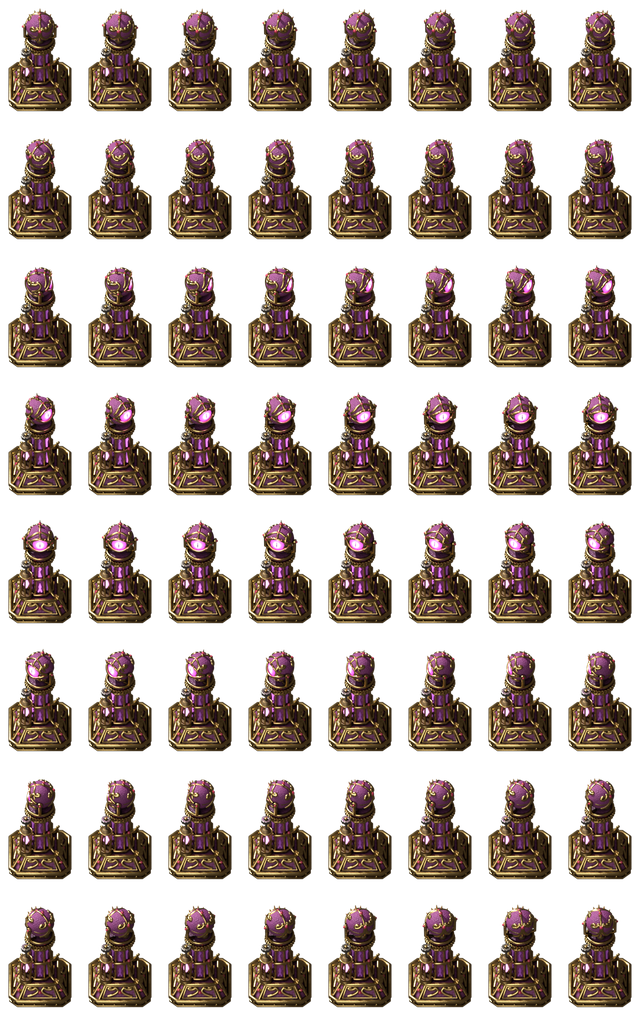
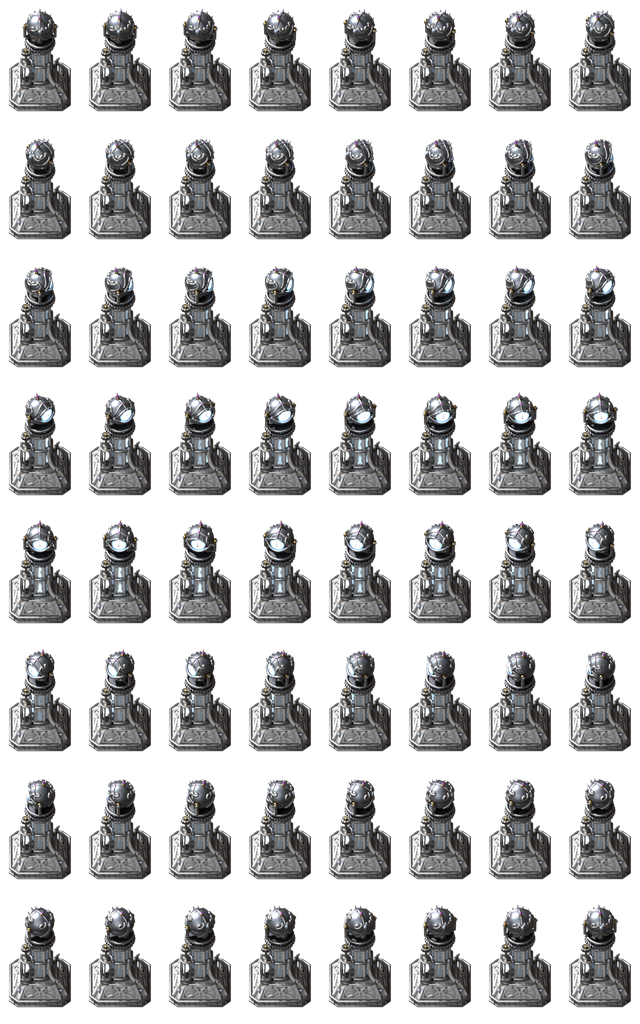
Give the sentry ward a silver and marble look
Veined white marble for the skirt and pillar with carved marble relief
instead of gold castings, blued steel for the eye and turntable, thin
tarnished-silver trims and moonstones instead of rubies. The eye, runes
and gaze pool glow ice blue, apart from the soul collector's teal.

diff --git a/blender/sentry_ward.py b/blender/sentry_ward.py
@@ -73,12 +73,12 @@ def iris_material():
     L(fib_v.outputs[0], fib.inputs["Vector"])
     ramp = nt.nodes.new("ShaderNodeValToRGB")
     els = ramp.color_ramp.elements
-    els[0].position, els[0].color = 0.3, (1.0, 0.55, 1.0, 1)
-    els[1].position, els[1].color = 1.0, (0.25, 0.0, 0.45, 1)
+    els[0].position, els[0].color = 0.3, (0.85, 0.95, 1.0, 1)
+    els[1].position, els[1].color = 1.0, (0.04, 0.1, 0.35, 1)
     e = els.new(0.55)
-    e.color = (0.9, 0.12, 0.95, 1)
+    e.color = (0.4, 0.7, 1.0, 1)
     e = els.new(0.92)
-    e.color = (0.45, 0.02, 0.7, 1)
+    e.color = (0.12, 0.3, 0.8, 1)
     L(norm.outputs["Result"], ramp.inputs["Fac"])
     mix = nt.nodes.new("ShaderNodeMix")
     mix.data_type = "RGBA"
@@ -100,7 +100,62 @@ def iris_material():
 
 IRIS, IRIS_EM = iris_material()
 PUPIL = gem("pupil", (0.01, 0.005, 0.012))
-HEART, HEART_EM = emitter("heart", (1.0, 0.3, 0.9), 3.0, base=(0.6, 0.1, 0.5), glass=True)
+HEART, HEART_EM = emitter("heart", (0.7, 0.88, 1.0), 3.0, base=(0.45, 0.6, 0.8), glass=True)
+ICE = (0.55, 0.78, 1.0)     # the ward's cold blue-white light (eye, runes, heart, gaze)
+
+# ----------------------------------------------------------------------------
+# Materials: a watchtower of silver and marble
+# ----------------------------------------------------------------------------
+# The ward has its own identity among the gold-and-purple machines: pale veined
+# marble base and pillar, tarnished silver castings, polished and blued steel
+# for the drive and the eye mount. Gold survives only on a few small fittings,
+# purple only in two amethysts.
+
+
+def marble(name, base, vein, scale=3.0):
+    """Veined stone: fblend's grime (AO, dirt, mottling) multiplied by distorted
+    wave-texture veins, so the white reads as stone at 64 px per tile."""
+    m, nt, bsdf = node_mat(name)
+    bsdf.inputs["Metallic"].default_value = 0.0
+    grime(nt, bsdf, base, (0.42, 0.41, 0.4), noise_scale=12.0, rough=(0.3, 0.5),
+          bump=0.08, bump_scale=40.0, dirt=0.25)
+    L = nt.links.new
+    old = bsdf.inputs["Base Color"].links[0].from_socket
+    tc = nt.nodes.new("ShaderNodeTexCoord")
+    wave = nt.nodes.new("ShaderNodeTexWave")
+    wave.inputs["Scale"].default_value = scale
+    wave.inputs["Distortion"].default_value = 9.0
+    wave.inputs["Detail"].default_value = 8.0
+    wave.inputs["Detail Roughness"].default_value = 0.7
+    L(tc.outputs["Object"], wave.inputs["Vector"])
+    ramp = nt.nodes.new("ShaderNodeValToRGB")
+    els = ramp.color_ramp.elements
+    els[0].position, els[0].color = 0.0, (*vein, 1)
+    els[1].position, els[1].color = 0.12, (1, 1, 1, 1)
+    e = els.new(0.55)
+    e.color = (0.93, 0.93, 0.95, 1)
+    L(wave.outputs["Fac"], ramp.inputs["Fac"])
+    mix = nt.nodes.new("ShaderNodeMix")
+    mix.data_type = "RGBA"
+    mix.blend_type = "MULTIPLY"
+    mix.inputs["Factor"].default_value = 1.0
+    L(old, mix.inputs["A"])
+    L(ramp.outputs["Color"], mix.inputs["B"])
+    L(mix.outputs["Result"], bsdf.inputs["Base Color"])
+    bsdf.inputs["Coat Weight"].default_value = 0.3     # honed, faintly polished
+    return m
+
+
+MARBLE = marble("marble", (0.93, 0.92, 0.89), (0.4, 0.42, 0.48))
+MARBLE_DARK = marble("marble_dark", (0.5, 0.5, 0.52), (0.12, 0.13, 0.16), scale=4.0)
+SILVER = metal("silver", (0.74, 0.74, 0.76), (0.08, 0.08, 0.09), rough=(0.3, 0.55), dirt=0.35)
+BLUED = metal("blued_steel", (0.36, 0.4, 0.47), (0.05, 0.055, 0.07), rough=(0.38, 0.6),
+              dirt=0.2)
+MOONSTONE = gem("moonstone", (0.55, 0.72, 0.95))
+AMETHYST = gem("amethyst", (0.45, 0.12, 0.6))
+GILT = fblend.GOLD           # the real gold, kept for a few small fittings
+fblend.GOLD = SILVER         # fblend's helpers (frames, filigree, studs) default to it
+GOLD, RUBY, BRONZE, PURPLE = SILVER, MOONSTONE, STEEL, MARBLE
 
 # ----------------------------------------------------------------------------
 # Dimensions
@@ -184,8 +239,8 @@ animated = []      # (obj, fn(obj, theta)) with theta = heading clockwise from n
 # Base: bronze plinth, sloped purple skirt with scrollwork
 # ----------------------------------------------------------------------------
 plinth = chamfered(PL, PL_CH)
-frustum("plinth", plinth, 0, [(x * 0.97, y * 0.97) for x, y in plinth], PLINTH_H, BRONZE)
-rail("plinth_rail", [(x, y, PLINTH_H) for x, y in plinth], 0.03, closed=True)
+frustum("plinth", plinth, 0, [(x * 0.97, y * 0.97) for x, y in plinth], PLINTH_H, MARBLE_DARK)
+rail("plinth_rail", [(x, y, PLINTH_H) for x, y in plinth], 0.02, closed=True)
 rail("plinth_foot", [(x * 1.01, y * 1.01, 0.012) for x, y in plinth], 0.016, closed=True)
 for i in (7, 0, 1, 2):      # rivets on the faces the camera sees
     a, b = Vector((*plinth[i], 0)), Vector((*plinth[(i + 1) % 8], 0))
@@ -197,18 +252,18 @@ for i in (7, 0, 1, 2):      # rivets on the faces the camera sees
 
 sk_bot, sk_top = chamfered(SK_B, SK_CH), chamfered(SK_T, SK_CH * 0.7)
 frustum("skirt", sk_bot, PLINTH_H, sk_top, SK_H, PURPLE)
-rail("skirt_top", [(x, y, SK_H) for x, y in sk_top], 0.028, closed=True)
-for k in range(8):          # thick gold ribs on the skirt's corner edges
-    rail(f"skirt_rib{k}", [(*sk_bot[k], PLINTH_H + 0.01), (*sk_top[k], SK_H)], 0.022)
+rail("skirt_top", [(x, y, SK_H) for x, y in sk_top], 0.018, closed=True)   # silver trim
+for k in range(8):          # carved marble mouldings on the skirt's corner edges
+    rail(f"skirt_rib{k}", [(*sk_bot[k], PLINTH_H + 0.01), (*sk_top[k], SK_H)], 0.024, mat=MARBLE)
 sk_walls = walls(sk_bot, PLINTH_H, sk_top, SK_H)
 for i in (0, 2, 6):         # big faces: a framed double scroll each (south, east, west)
     sp = sub_panel(sk_walls[i], 0.06, 0.94, 0.12, 0.9)
-    gold_frame(sp, f"skirt_frame{i}", r=0.016, parent=root)
+    gold_frame(sp, f"skirt_frame{i}", r=0.018, parent=root, mat=MARBLE)   # carved relief
     inner = sub_panel(sp, 0.08, 0.92, 0.12, 0.88)
     inner.filigree(f"skirt_fil{i}a", [fit(scroll_c(0, 0, 1), 0.0, 0.0, 0.42, 1.0)],
-                   radius=FIL_R, lift=0.01, parent=root)
+                   radius=FIL_R, lift=0.01, parent=root, mat=MARBLE)
     inner.filigree(f"skirt_fil{i}b", [fit(scroll_c(0, 0, 1), 0.58, 0.0, 1.0, 1.0, flip_x=True)],
-                   radius=FIL_R, lift=0.01, parent=root)
+                   radius=FIL_R, lift=0.01, parent=root, mat=MARBLE)
     inner.studs(f"skirt_gem{i}", [(0.5, 0.45)], r=0.026, mat=RUBY, parent=root)
 for i in (1, 7):            # front chamfer faces: a single ruby in a gold boss
     c = sk_walls[i].at(0.5, 0.5, 0.01)
@@ -216,13 +271,13 @@ for i in (1, 7):            # front chamfer faces: a single ruby in a gold boss
     sphere(f"skirt_boss_gem{i}", 0.02, sk_walls[i].at(0.5, 0.5, 0.035), RUBY, root)
 
 # ----------------------------------------------------------------------------
-# Column: octagonal purple shaft with gold edges and bands. Its three front
+# Column: octagonal marble shaft with carved edges and silver bands. Its three front
 # faces carry rune inlays that light up as the eye sweeps over their sector.
 # ----------------------------------------------------------------------------
 col_b, col_t = octagon(COL_R0), octagon(COL_R1)
 frustum("column", col_b, SK_H, col_t, COL_Z1, PURPLE)
 for k in range(8):
-    rail(f"col_rib{k}", [(*col_b[k], SK_H), (*col_t[k], COL_Z1)], 0.016)
+    rail(f"col_rib{k}", [(*col_b[k], SK_H), (*col_t[k], COL_Z1)], 0.016, mat=MARBLE)
 for z, r in ((SK_H + 0.025, COL_R0 + 0.025), (0.58, (COL_R0 + COL_R1) / 2 + 0.02),
              (COL_Z1 - 0.02, COL_R1 + 0.03)):
     rail(f"col_band{z}", [(x, y, z) for x, y in octagon(r)], 0.022, closed=True)
@@ -232,7 +287,7 @@ for k, glyph in ((4, 0), (5, 2), (6, 3)):      # SW, S, SE faces (edge k faces 4
     w = col_walls[k]
     face_n = Vector(w.n)
     compass = math.atan2(face_n.x, face_n.y)     # clockwise from north
-    mat, em = emitter(f"rune_face{k}", (0.8, 0.2, 1.0), 0.3, base=(0.08, 0.02, 0.08))
+    mat, em = emitter(f"rune_face{k}", ICE, 0.3, base=(0.05, 0.07, 0.1))
     for half, (v0, v1) in enumerate(((0.06, 0.48), (0.53, 0.95))):
         pnl = sub_panel(w, 0.12, 0.88, v0, v1)
         for gi, stroke in enumerate(RUNES[(glyph + half) % len(RUNES)]):
@@ -254,7 +309,8 @@ for a in (45, 135, 315):
             fit(scroll_c(0, 0, 1), 0.0, 0.0, 1.0, 1.0, flip_x=True)][::-1]
     for k, (rr, zz) in enumerate(((0.0, 0.0), (-0.045, -0.06))):
         pts = [(r + rr * (1 - t / 14), z + zz * (1 - t / 14)) for t, (r, z) in enumerate(sweep)]
-        rail(f"gusset{a}_{k}", [tuple(d * r + Vector((0, 0, z))) for r, z in pts], 0.02 - 0.006 * k)
+        rail(f"gusset{a}_{k}", [tuple(d * r + Vector((0, 0, z))) for r, z in pts], 0.026 - 0.008 * k,
+             mat=MARBLE)
     rail(f"gusset_curl{a}", [tuple(d * r + Vector((0, 0, z))) for r, z in curl], 0.014)
     sphere(f"gusset_gem{a}", 0.022, tuple(d * (r0 + 0.02) + Vector((0, 0, 0.6))), RUBY, root)
 
@@ -289,7 +345,7 @@ cyl("spindle_rod", 0.014, RG_Z - LAN_Z0 - 0.05, (0, 0, (RG_Z + LAN_Z0 + 0.05) / 
     verts=12)
 pinion = gear("pinion", PIN_T, PIN_R, 0.045, STEEL, spindle, spokes=0, inner=0.4)
 pinion.location = (0, 0, RG_Z)
-cyl("pinion_cap", 0.022, 0.03, (0, 0, RG_Z + 0.035), GOLD, spindle, verts=12)
+cyl("pinion_cap", 0.022, 0.03, (0, 0, RG_Z + 0.035), GILT, spindle, verts=12)
 HEART_Z = (LAN_Z0 + 0.09 + LAN_Z1 - 0.03) / 2
 bm = bmesh.new()            # hexagonal bipyramid crystal
 ring_v = [bm.verts.new((0.042 * math.cos(TAU * k / 6), 0.042 * math.sin(TAU * k / 6), 0))
@@ -303,7 +359,7 @@ heart.data.shade_flat()
 heart.location = (0, 0, HEART_Z)
 glow(heart)
 heart_light_d = bpy.data.lights.new("heart_light", "POINT")
-heart_light_d.color = (1.0, 0.35, 0.9)
+heart_light_d.color = ICE
 heart_light_d.shadow_soft_size = 0.03
 heart_light_d.energy = 1.2
 o = bpy.data.objects.new("heart_light", heart_light_d)
@@ -327,7 +383,7 @@ animated.append((head, lambda o, th: setattr(o, "rotation_euler", (0, 0, -th))))
 ring = gear("slewing_ring", RG_T, RG_R, 0.05, GOLD, head, spokes=6, inner=0.7)
 ring.location = (0, 0, RG_Z)
 ring.rotation_euler = (0, 0, th_ring)
-cyl("turntable", TT_R, TT_Z1 - TT_Z0, (0, 0, (TT_Z0 + TT_Z1) / 2), PURPLE, head, verts=48)
+cyl("turntable", TT_R, TT_Z1 - TT_Z0, (0, 0, (TT_Z0 + TT_Z1) / 2), BLUED, head, verts=48)
 rail("turntable_rim", ring_pts(TT_R + 0.005, TT_Z1), 0.02, closed=True, parent=head)
 for k in range(8):
     a = TAU * (k + 0.5) / 8
@@ -358,7 +414,7 @@ pupil = sphere("pupil", EYE_R * 0.42, (0, EYE_R * 0.82, 0), PUPIL, eye, segs=24)
 pupil.scale = (0.22, 0.5, 0.95)    # a vertical slit, like a dragon's eye
 limbal = [(EYE_R * 1.01 * math.sin(IRIS_A) * math.cos(TAU * i / 40), EYE_R * 1.01 * math.cos(IRIS_A),
            EYE_R * 1.01 * math.sin(IRIS_A) * math.sin(TAU * i / 40)) for i in range(40)]
-curve_obj("limbal_ring", limbal, GOLD, 0.008, eye, closed=True)
+curve_obj("limbal_ring", limbal, GILT, 0.008, eye, closed=True)
 
 # Purple shell with an almond slot: the eye is only seen through its lids.
 SLOT_W, SLOT_H = SHELL_R * 0.9, SHELL_R * 0.52
@@ -368,10 +424,7 @@ def slot_h(x):
     return SLOT_H * max(0.0, 1 - (x / SLOT_W) ** 2)
 
 
-SHELL_PAINT = PURPLE.copy()     # same paint, finer hammering for the small shell
-for nd in SHELL_PAINT.node_tree.nodes:
-    if nd.type == "TEX_VORONOI":
-        nd.inputs["Scale"].default_value = 70.0
+SHELL_PAINT = BLUED            # dark blued steel, so the silver ribs and lids read on it
 shell = cap("shell", SHELL_R, lambda c: not (c.y > 0 and abs(c.z) < slot_h(c.x) + 0.004),
             SHELL_PAINT, eye, segs=64)
 sol = shell.modifiers.new("solid", "SOLIDIFY")
@@ -408,9 +461,9 @@ for k, a in enumerate((0.0,)):
 rail("shell_band", [(SHELL_R * 1.01 * math.cos(t), SHELL_R * 1.01 * math.sin(t), 0)
                     for t in (math.radians(a) for a in range(200, 341, 10))], 0.016, parent=eye)
 # finial on the crown
-cyl("finial_base", 0.03, 0.04, (0, -0.02, SHELL_R + 0.02), GOLD, eye, verts=16, r2=0.018)
-cyl("finial_spike", 0.012, 0.09, (0, -0.02, SHELL_R + 0.08), GOLD, eye, verts=12, r2=0.002)
-sphere("finial_gem", 0.022, (0, -0.02, SHELL_R + 0.06), RUBY, eye)
+cyl("finial_base", 0.03, 0.04, (0, -0.02, SHELL_R + 0.02), GILT, eye, verts=16, r2=0.018)
+cyl("finial_spike", 0.012, 0.09, (0, -0.02, SHELL_R + 0.08), GILT, eye, verts=12, r2=0.002)
+sphere("finial_gem", 0.022, (0, -0.02, SHELL_R + 0.06), AMETHYST, eye)
 
 
 def on_shell(center, t1, t2, strokes, span, name, r=FIL_R, mat=None):
@@ -444,7 +497,7 @@ for i in range(25):
     y = math.sqrt(max(SHELL_R ** 2 - x * x - z * z, 0.0))
     brow.append((x * 1.06, y * 1.06, z * 1.04))
 curve_obj("brow", brow, GOLD, 0.017, eye)
-sphere("brow_gem", 0.022, brow[12], RUBY, eye)
+sphere("brow_gem", 0.022, brow[12], AMETHYST, eye)
 # counterweight slung under the back balances the eye on its pivots
 sphere("counterweight", 0.05, (0, -SHELL_R * 0.75, -SHELL_R * 0.78), BRONZE, eye, segs=20)
 cyl("counterweight_band", 0.052, 0.022, (0, -SHELL_R * 0.75, -SHELL_R * 0.78), GOLD, eye,
@@ -455,12 +508,12 @@ FORK_X = SHELL_R + 0.03
 for sx in (-1, 1):
     rail(f"fork{sx}", [(sx * 0.1, 0, TT_Z1), (sx * FORK_X, 0, TT_Z1 + 0.04), (sx * FORK_X, 0, EYE_C.z)],
          0.022, parent=head)
-    cyl(f"pivot{sx}", 0.035, 0.03, (sx * (FORK_X + 0.005), 0, EYE_C.z), GOLD, head,
+    cyl(f"pivot{sx}", 0.035, 0.03, (sx * (FORK_X + 0.005), 0, EYE_C.z), GILT, head,
         rot=(0, math.radians(90), 0), verts=20)
     sphere(f"pivot_gem{sx}", 0.016, (sx * (FORK_X + 0.025), 0, EYE_C.z), RUBY, head)
 
 eye_light_d = bpy.data.lights.new("eye_light", "POINT")
-eye_light_d.color = (0.9, 0.3, 1.0)
+eye_light_d.color = ICE
 eye_light_d.shadow_soft_size = 0.02
 eye_light_d.energy = 0.6
 o = bpy.data.objects.new("eye_light", eye_light_d)
@@ -489,7 +542,7 @@ def gaze_material():
     mix = nt.nodes.new("ShaderNodeMixShader")
     tr = nt.nodes.new("ShaderNodeBsdfTransparent")
     em = nt.nodes.new("ShaderNodeEmission")
-    em.inputs["Color"].default_value = (0.85, 0.3, 1.0, 1)
+    em.inputs["Color"].default_value = (0.6, 0.8, 1.0, 1)
     em.inputs["Strength"].default_value = 1.2
     tc = nt.nodes.new("ShaderNodeTexCoord")      # unit disc in object space
     ln = nt.nodes.new("ShaderNodeVectorMath")
